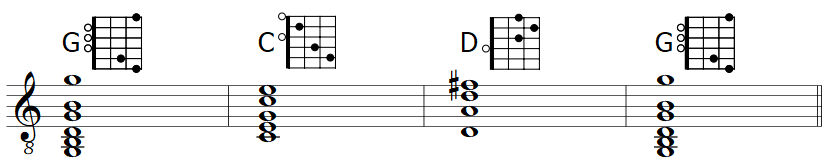
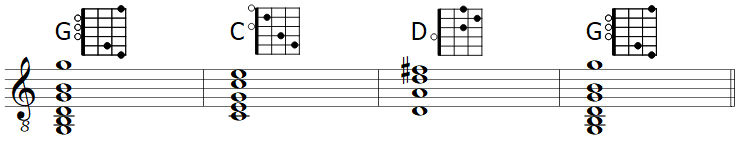
New page on chord chart revised.

Changed region(s): [[0.0, 0.028, 0.9946, 0.951], [0.5284, 0.028, 0.6527, 0.4476], [0.3108, 0.028, 0.4041, 0.4196]]

diff --git a/source/gitarre/akkorde/akkordtabelle/index.html b/source/gitarre/akkorde/akkordtabelle/index.html
@@ -17,10 +17,10 @@
 	<p>
 		Die Tabelle (klicke auf <a href="/pdf/Grifftabelle.pdf">Download</a> für eine PDF-Datei) mit den wichtigsten Standardgriffen und einigen Barrégriffen ist keineswegs vollständig. Sie ist in englischer Schreibweise verfasst:</p>
 		<ul>
-			<li>deutsch <span class="mn">H</span> heißt englisch <span class="mn">B</span></li>
-			<li>deutsch <span class="mn">B</span> heißt englisch <span class="mn">B♭</span></li>
-			<li>deutsch <span class="mn">Fis</span> heißt englisch <span class="mn">F♯</span></li>
-			<li>deutsch <span class="mn">H-Moll</span> heißt englisch <span class="mn">Bm</span></li>
+			<li>deutsch <span class="mn">H</span> heißt englisch <span class="mn">B</span> (B major)</li>
+			<li>deutsch <span class="mn">B</span> heißt englisch <span class="mn">B♭</span> (B flat major)</li>
+			<li>deutsch <span class="mn">Fis</span> heißt englisch <span class="mn">F♯m</span> (F sharp minor)</li>
+			<li>deutsch <span class="mn">H-Moll</span> heißt englisch <span class="mn">Bm</span> (B minor)</li>
 		</ul>
 		<p>Es sind nicht mal alle Durakkorde enthalten, ich schlage vielmehr vor, sich weitere Griffe abzuleiten. Dazu steht hier ein <a href="/gitarre/akkorde/akkordtabelle/index.html#kommentar">Kommentar</a>.
 	</p>
@@ -139,14 +139,14 @@
 	<h4>Gleichnamige Molltonart</h4>
 	<p>Meine nächste Anregung: spiele die Kadenz in der gleichnamigen Molltonart, also in C-Moll. Dazu musst du wissen, dass hier die 1. und 4. Stufe Mollakkorde sind, während die 5. Stufe, die Dominante, fast immer als Durakkord auftaucht.</p>
 	<div class="task">
-		 Die Kadenz ist also <span class="mn">Cm - Fm - G - Cm</span>.<br>
+		 Die Kadenz in C-Moll ist also <span class="mn">Cm - Fm - G - Cm</span>.<br>
 		Auch hier musst du C-Moll und F-Moll wieder ableiten. Du findest H-Moll (<span class="mn">Bm</span>) in der Tabelle - C-Moll ist einen Bund höher, und F-Moll muss im 1. Bund sein, wenn F♯m (Fis-Moll) im zweiten Bund ist. Alles ganz einfach!
 	</div><p>Wenn du Kadenzen in gleichnamigen Dur- und Molltonarten spielst, merkst du, dass die Griffe manchmal sehr verschieden und manchmal fast gleich sind. Zum Beispiel besteht der Unterschied zwischen E-Dur und E-Moll nur in dem <span class="mn">gis</span> beziehungsweise <span class="mn">g</span> auf der g-Saite, bei G-Dur und G-Moll hingegen hast du einmal einen Akkord mit drei gegriffenen Tönen und drei leeren Saiten gegenüber einem Barrégriff, der komplett anders geht.</p>
 	<h4>Parallele Molltonart</h4>
 	<div class="task">
 		Die <a href="/musiklehre/tonleitern/quintenzirkel/index.html#dieparallelemoll">parallele</a> Molltonart zu C-Dur ist A-Moll, die Kadenz lautet:<br>
 		<span class="mn">Am - Dm - E - Am</span>.
-		<br>Diese Akkorde passen oft zu Songs in der Durparallele, es ist also sinnvoll, Kadenzen in C-Dur und A-Moll zusammen zu üben.
+		<br>Für viele Songs braucht man nicht nur die Akkorde der Durtonart, sondern auch die der Mollparallele und umgekehrt. Es ist also sinnvoll, Kadenzen in C-Dur und A-Moll zusammen zu üben.
 	</div>
 	<p>Mit diesen Übungen kommst du vielleicht in die Lage, diese Tabelle nicht nur als eine merkwürdige Grafik zu betrachten, und ja länger du Gitarre spielst, umso vertrauter wird dir das alles werden!</p>
 </section>
